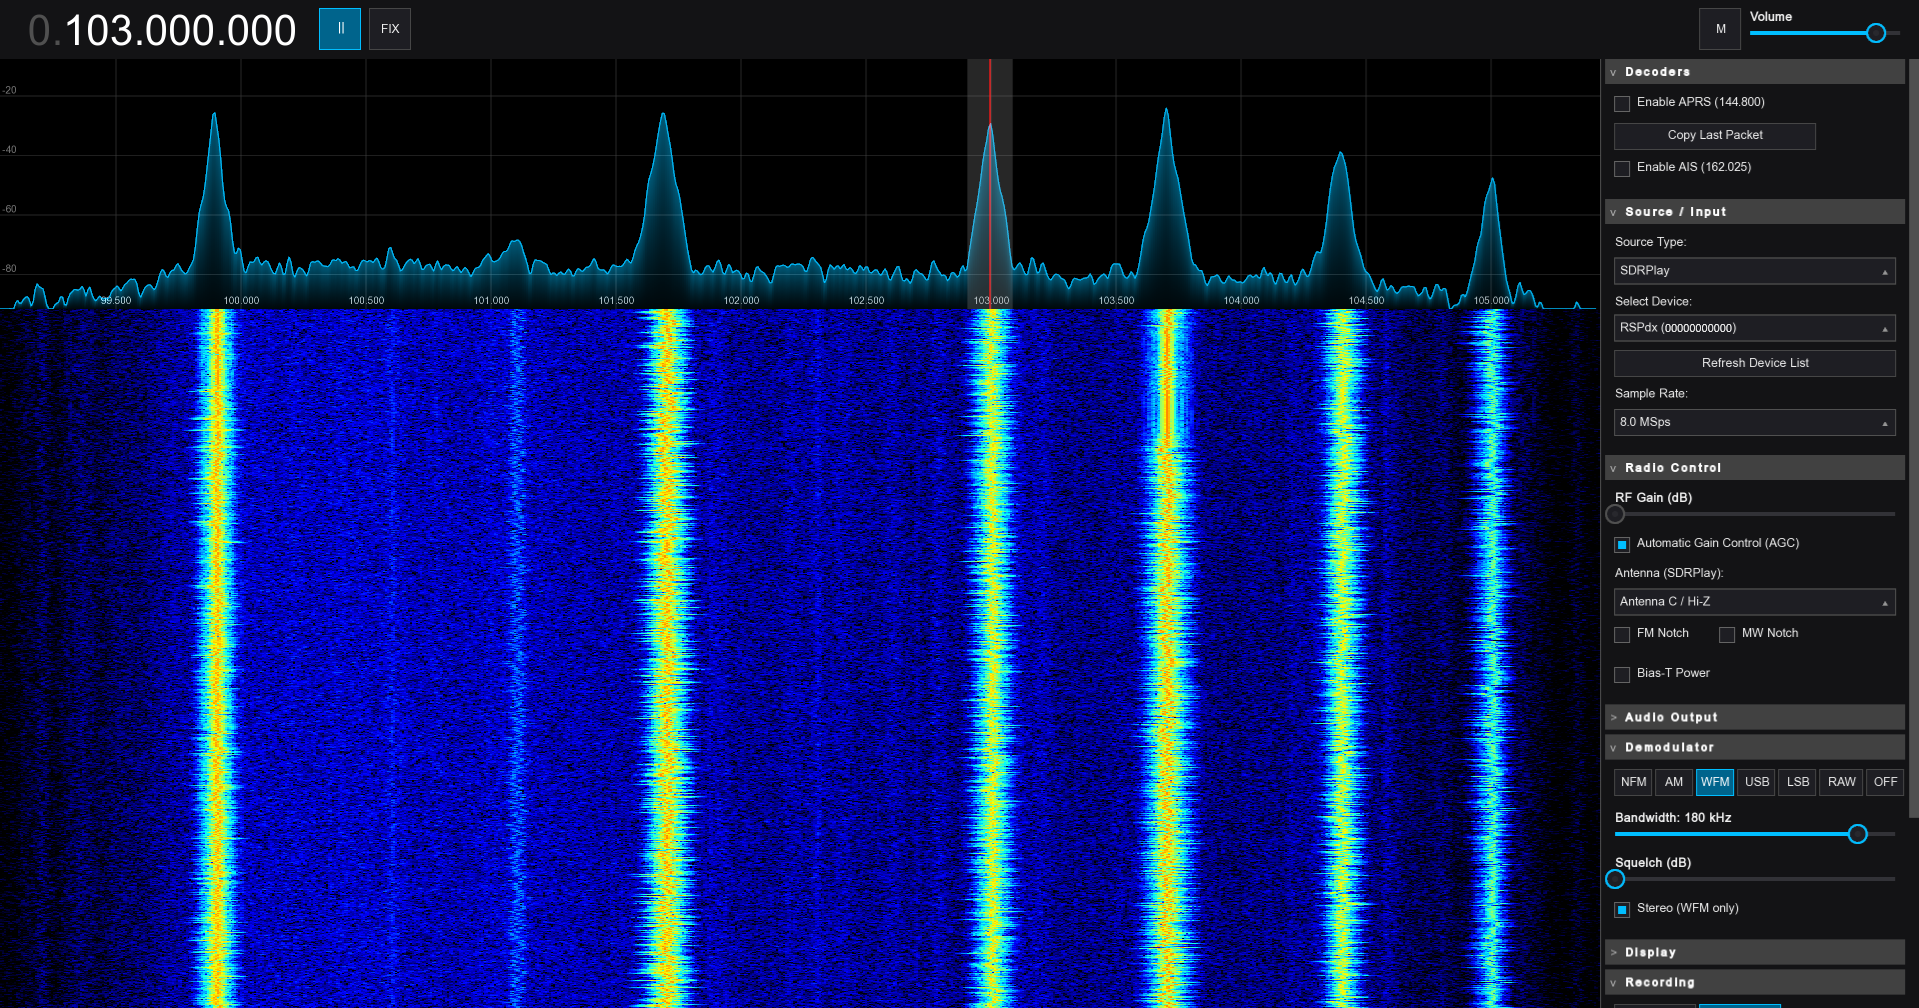
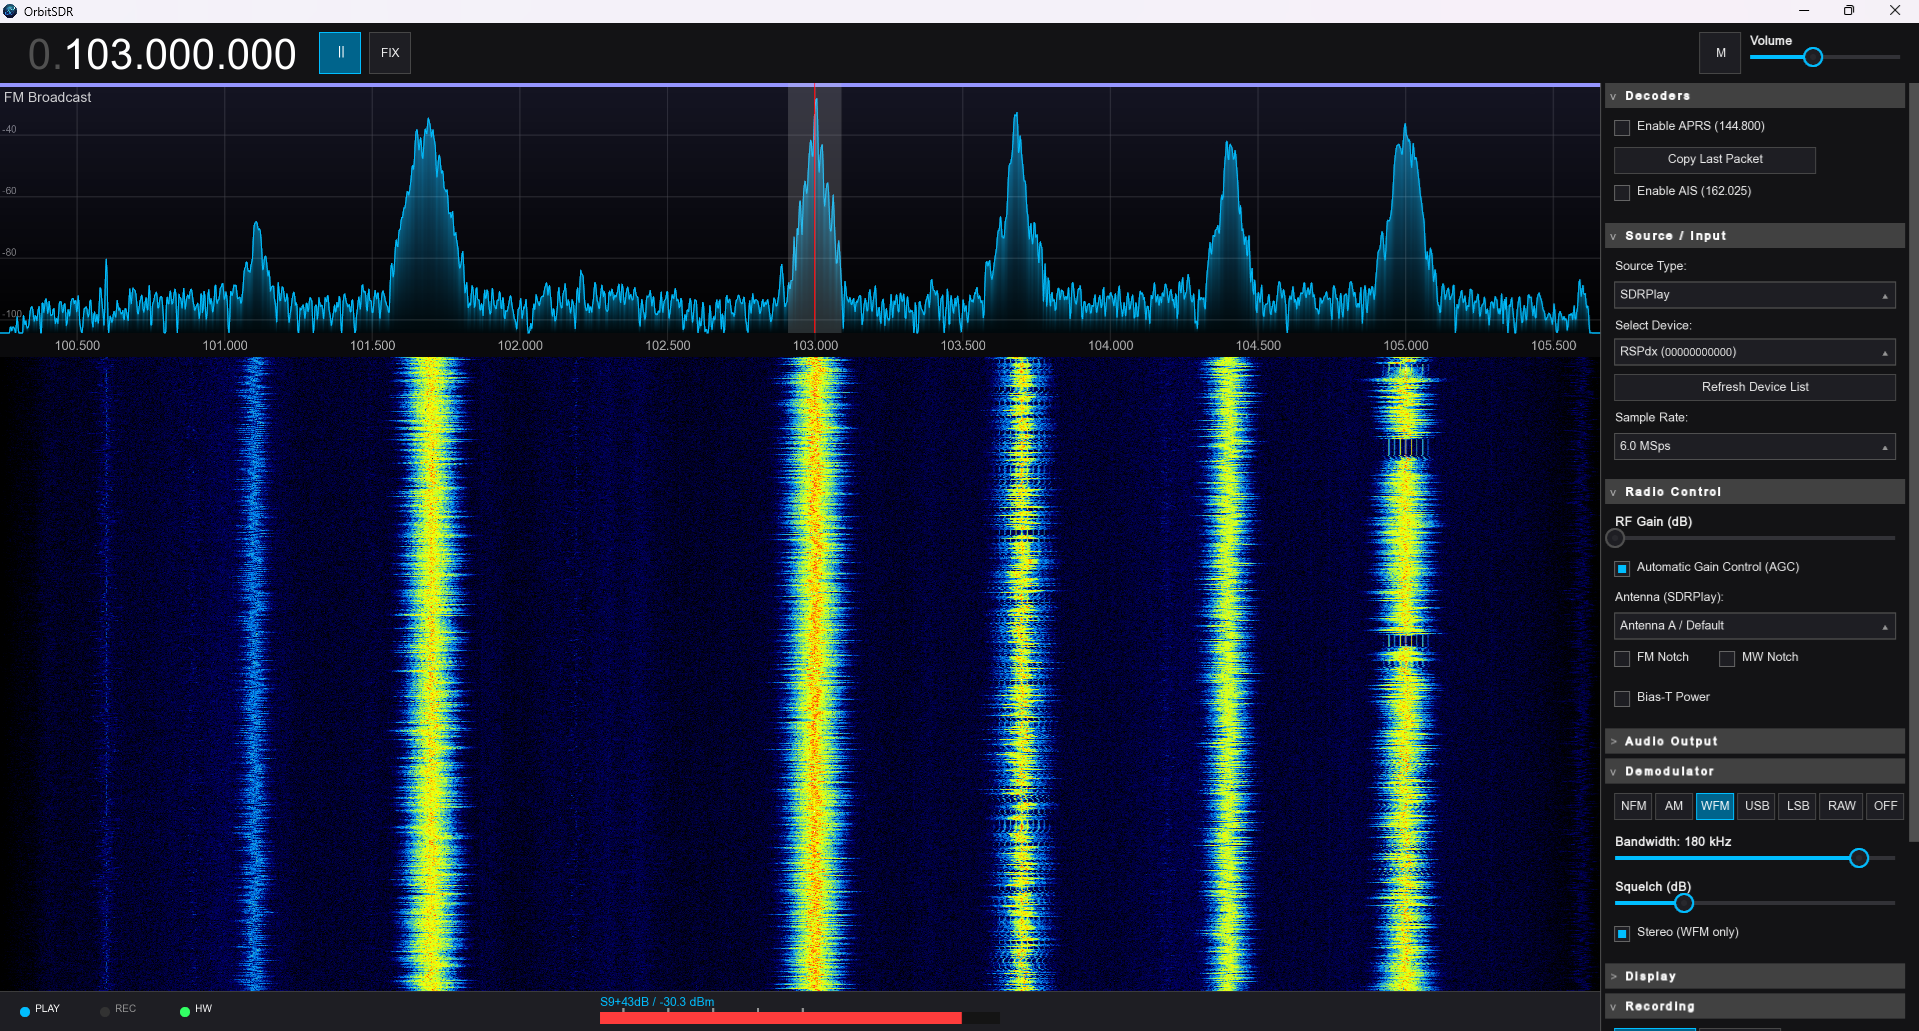
bandplan and UI redesign

diff --git a/src/main.cpp b/src/main.cpp
@@ -873,7 +873,7 @@ int main() {
         layout.sidebarX = layout.winW - SIDEBAR_W;
         layout.specW = layout.sidebarX;
         layout.specH = 250.0f;
-        layout.waterfallH = layout.winH - TOP_BAR_H - layout.specH;
+        layout.waterfallH = layout.winH - TOP_BAR_H - layout.specH - layout.tuneBarH; // Zostawiamy miejsce na pasek
 
         if (layout.waterfallH < 100) layout.waterfallH = 100;
 
@@ -891,7 +891,7 @@ int main() {
         timeSlider.setPosition(20, layout.winH - 30);
         timeSlider.setWidth(layout.specW - 40);
 
-        wSpr.setPosition({0, TOP_BAR_H + layout.specH});
+        wSpr.setPosition({0, TOP_BAR_H + layout.specH + layout.tuneBarH});
         float scaleX = layout.specW / (float)INTERNAL_WATERFALL_WIDTH;
         wSpr.setScale({scaleX, 1.0f});
         wSpr.setTextureRect(sf::IntRect({0, 0}, {INTERNAL_WATERFALL_WIDTH, (int)layout.waterfallH}));
@@ -993,6 +993,13 @@ int main() {
     SdrButton btnModalCopy(80, 30, "Copy", font);
     btnModalClose.onClick = [&]() { showAprsModal = false; };
     btnModalCopy.onClick = [&]() { sf::Clipboard::setString(selectedAprsPacket.raw); };
+
+    // Ładowanie Band Planu
+    std::string bpPath = "bandplan.json";
+    if (!std::ifstream(bpPath).good()) {
+        bpPath = "../Resources/bandplan.json"; // Ścieżka dla macOS wewnątrz OrbitSDR.app/Contents/MacOS/
+    }
+    globalBandPlan = loadBandPlan(bpPath);
 
     while (window.isOpen()) {
         sf::Vector2u currSize = window.getSize();
@@ -1328,7 +1335,7 @@ int main() {
                     }
 
                     bool overTimeline = (currentSourceType == 0) && (timeSlider.isDragging || (m.y > layout.winH - 40));
-                    bool inFreqScaleZone = (m.y >= TOP_BAR_H + layout.specH - 10 && m.y <= TOP_BAR_H + layout.specH + 20 && m.x < layout.specW);
+                    bool inFreqScaleZone = (m.y >= TOP_BAR_H + layout.specH && m.y <= TOP_BAR_H + layout.specH + layout.tuneBarH && m.x < layout.specW);
 
                     float leftEdge = visualCenterX - bwPixels / 2.0f;
                     float rightEdge = visualCenterX + bwPixels / 2.0f;
@@ -1499,7 +1506,63 @@ int main() {
         long long cf = 0;
         if (currentSource) cf = currentCenterFreq;
 
+        // --- RYSOWANIE DEDYKOWANEGO PASKA STROJENIA ---
+        sf::RectangleShape tuneBarBg({layout.specW, layout.tuneBarH});
+        tuneBarBg.setPosition({0, (float)(TOP_BAR_H + layout.specH)});
+        tuneBarBg.setFillColor(sf::Color(10, 10, 12)); // Głęboka czerń/szarość
+        window.draw(tuneBarBg);
+
         drawGrid(window, font, 0, TOP_BAR_H, layout.specW, layout.specH, cf, hwSampleRate, viewStartPct, viewEndPct, slMinDb->currentVal, slMaxDb->currentVal);
+
+        // --- RYSOWANIE BAND PLANU ---
+        double startFreq = (double)cf + (viewStartPct - 0.5) * hwSampleRate;
+        double endFreq = (double)cf + (viewEndPct - 0.5) * hwSampleRate;
+        double visibleSpan = endFreq - startFreq;
+
+        for (const auto& band : globalBandPlan) {
+            // Sprawdź, czy pasmo mieści się w widocznym oknie
+            if (band.endFreq > startFreq && band.startFreq < endFreq) {
+                // Oblicz pozycje X
+                float startX = layout.specW * ((band.startFreq - startFreq) / visibleSpan);
+                float endX = layout.specW * ((band.endFreq - startFreq) / visibleSpan);
+                
+                // Przytnij do krawędzi ekranu
+                if (startX < 0) startX = 0;
+                if (endX > layout.specW) endX = layout.specW;
+                float widthX = endX - startX;
+
+                if (widthX > 1.0f) {
+                    // 1. Półprzeźroczysty gradient na wykresie FFT
+                    sf::VertexArray gradient(sf::PrimitiveType::TriangleStrip, 4);
+                    sf::Color topColor = band.color; topColor.a = 35; // Bardzo delikatna przeźroczystość
+                    sf::Color bottomColor = band.color; bottomColor.a = 0; // Zanika całkowicie
+                    
+                    float topY = TOP_BAR_H;
+                    float bottomY = TOP_BAR_H + layout.specH;
+
+                    gradient[0] = sf::Vertex{sf::Vector2f(startX, topY), topColor};
+                    gradient[1] = sf::Vertex{sf::Vector2f(endX, topY), topColor};
+                    gradient[2] = sf::Vertex{sf::Vector2f(startX, bottomY), bottomColor};
+                    gradient[3] = sf::Vertex{sf::Vector2f(endX, bottomY), bottomColor};
+                    window.draw(gradient);
+
+                    // 2. Poziomy pasek nad wykresem
+                    sf::RectangleShape bar({widthX, 4.0f});
+                    bar.setPosition({startX, (float)TOP_BAR_H});
+                    bar.setFillColor(band.color);
+                    window.draw(bar);
+
+                    // 3. Nazwa pasma
+                    if (widthX > 40.0f) { // Rysuj tekst tylko jeśli jest wystarczająco dużo miejsca
+                        sf::Text bText(font, band.name, 28);
+                        bText.setScale({0.5f, 0.5f});
+                        bText.setPosition({startX + 4, (float)TOP_BAR_H + 5});
+                        bText.setFillColor(sf::Color(255, 255, 255, 200));
+                        window.draw(bText);
+                    }
+                }
+            }
+        }
 
         std::vector<double> smoothedSpectrum = spectrum;
         for (size_t i = 1; i < spectrum.size() - 1; i++) {
@@ -1560,23 +1623,58 @@ int main() {
         }
 
         if (mx != -1.0f) {
-            sf::Color guideColor(100, 100, 100);
-            sf::VertexArray lineFFT(sf::PrimitiveType::Lines, 2);
-            lineFFT[0].position = sf::Vector2f(mx, (float)TOP_BAR_H);
-            lineFFT[0].color = guideColor;
-            lineFFT[1].position = sf::Vector2f(mx, (float)layout.specH + TOP_BAR_H);
-            lineFFT[1].color = guideColor;
-            window.draw(lineFFT);
+        sf::Color guideColor(100, 100, 100);
+        sf::VertexArray lineFFT(sf::PrimitiveType::Lines, 2);
+        lineFFT[0].position = sf::Vector2f(mx, (float)TOP_BAR_H);
+        lineFFT[0].color = guideColor;
+        lineFFT[1].position = sf::Vector2f(mx, (float)layout.specH + TOP_BAR_H);
+        lineFFT[1].color = guideColor;
+        window.draw(lineFFT);
 
-            if (my > (float)layout.specH) {
-                sf::VertexArray lineWaterfall(sf::PrimitiveType::Lines, 2);
-                lineWaterfall[0].position = sf::Vector2f(mx, (float)layout.specH + TOP_BAR_H);
-                lineWaterfall[0].color = guideColor;
-                lineWaterfall[1].position = sf::Vector2f(mx, (float)(layout.specH + layout.waterfallH + TOP_BAR_H));
-                lineWaterfall[1].color = guideColor;
-                window.draw(lineWaterfall);
+        // --- WARUNEK: TOOLTIP TYLKO W DOLNEJ CZĘŚCI FFT ---
+        if (my > layout.specH - 50.0f && my <= layout.specH) {
+            double hoverFreq = startFreq + (mx / layout.specW) * visibleSpan;
+            int binIdx = std::clamp((int)((mx / layout.specW) * spectrum.size()), 0, (int)spectrum.size() - 1);
+            float hoverPower = spectrum.empty() ? -127.0f : spectrum[binIdx];
+
+            std::string freqFormat = freqVFO.formatWithDots((long long)hoverFreq) + " Hz";
+            std::stringstream pwrStream;
+            pwrStream << std::fixed << std::setprecision(2) << hoverPower << " dBm";
+            std::string tooltipStr = freqFormat + "\nPower: " + pwrStream.str();
+
+            sf::Text tooltipText(font, tooltipStr, 24);
+            tooltipText.setScale({0.5f, 0.5f});
+            tooltipText.setFillColor(sf::Color::White);
+            
+            sf::FloatRect textBounds = tooltipText.getGlobalBounds();
+            sf::RectangleShape tooltipBg({textBounds.size.x + 16, textBounds.size.y + 12});
+            tooltipBg.setFillColor(sf::Color(20, 20, 25, 230));
+            tooltipBg.setOutlineColor(Theme::Accent);
+            tooltipBg.setOutlineThickness(1.0f);
+
+            float ttX = mx + 15.0f;
+            float ttY = my + TOP_BAR_H + 15.0f;
+            if (ttX + tooltipBg.getSize().x > layout.specW) {
+                ttX = mx - tooltipBg.getSize().x - 15.0f;
             }
+
+            tooltipBg.setPosition({ttX, ttY});
+            tooltipText.setPosition({ttX + 8, ttY + 4});
+
+            window.draw(tooltipBg);
+            window.draw(tooltipText);
         }
+
+        // Kreska na wodospadzie uwzględniająca przesunięcie paska
+        if (my > (float)layout.specH) {
+            sf::VertexArray lineWaterfall(sf::PrimitiveType::Lines, 2);
+            lineWaterfall[0].position = sf::Vector2f(mx, (float)layout.specH + layout.tuneBarH + TOP_BAR_H);
+            lineWaterfall[0].color = guideColor;
+            lineWaterfall[1].position = sf::Vector2f(mx, (float)(layout.specH + layout.tuneBarH + layout.waterfallH + TOP_BAR_H));
+            lineWaterfall[1].color = guideColor;
+            window.draw(lineWaterfall);
+        }
+    }
 
         if (tunerPosInView >= 0.0f && tunerPosInView <= 1.0f) {
             sf::RectangleShape tunerRect;
@@ -1742,6 +1840,92 @@ int main() {
             float tableH = 250.0f;
             float tableY = layout.winH - tableH;
             decoderUI->draw(window, 0, tableY, layout.specW, tableH);
+        } else {
+            // --- STATUS BAR Z S-METEREM (Ukrywany gdy działają dekodery) ---
+            float statusH = 40.0f;
+            float statusY = layout.winH - statusH;
+            
+            // Tło paska
+            sf::RectangleShape statusBarBg({layout.specW, statusH});
+            statusBarBg.setPosition({0, statusY});
+            statusBarBg.setFillColor(sf::Color(30, 30, 35));
+            statusBarBg.setOutlineThickness(1);
+            statusBarBg.setOutlineColor(sf::Color(60, 60, 60));
+            window.draw(statusBarBg);
+
+            // Wskaźniki LED po lewej
+            float ledX = 20.0f;
+            auto drawLED = [&](std::string label, bool state, sf::Color colorOn) {
+                sf::CircleShape led(5.0f);
+                led.setPosition({ledX, statusY + 15.0f});
+                led.setFillColor(state ? colorOn : sf::Color(50, 50, 50));
+                window.draw(led);
+                
+                sf::Text txt(font, label, 20);
+                txt.setScale({0.5f, 0.5f});
+                txt.setPosition({ledX + 15.0f, statusY + 10.0f});
+                txt.setFillColor(state ? sf::Color::White : sf::Color(150, 150, 150));
+                window.draw(txt);
+                ledX += 80.0f;
+            };
+
+            drawLED("PLAY", sharedData.isPlaying, Theme::Accent);
+            drawLED("REC", sharedData.isRecording, sf::Color(255, 50, 50));
+            drawLED("HW", isHw, sf::Color(50, 255, 100));
+
+            // Skala graficzna S-Metera ułożona centralnie
+            float meterW = 400.0f;
+            float meterX = (layout.specW / 2.0f) - (meterW / 2.0f);
+            
+            // Pobierz moc i mapuj na S-Meter (-127 dBm do -20 dBm)
+            int centerBin = std::clamp((int)(tunePct * spectrum.size()), 0, (int)spectrum.size() - 1);
+            float currentPower = spectrum.empty() ? -127.0f : spectrum[centerBin];
+            float minPwr = -127.0f;
+            float maxPwr = -20.0f;
+            float fillPct = std::clamp((currentPower - minPwr) / (maxPwr - minPwr), 0.0f, 1.0f);
+
+            // Tło wskaźnika S-metera
+            sf::RectangleShape sBg({meterW, 12.0f});
+            sBg.setPosition({meterX, statusY + 20.0f});
+            sBg.setFillColor(sf::Color(20, 20, 20));
+            window.draw(sBg);
+
+            // Wypełnienie S-Metera z kolorowaniem (czerwony dla obszaru S9+)
+            float fillW = meterW * fillPct;
+            float s9ThresholdW = meterW * ((-73.0f - minPwr) / (maxPwr - minPwr)); // S9 = -73 dBm
+            
+            sf::RectangleShape sFill({fillW, 12.0f});
+            sFill.setPosition({meterX, statusY + 20.0f});
+            // Jeśli moc przekracza S9, użyj czerwonego, jeśli nie - zielonego
+            sFill.setFillColor(currentPower > -73.0f ? sf::Color(255, 60, 60) : sf::Color(60, 255, 60));
+            window.draw(sFill);
+
+            // Teksty skali (S1...S9...+)
+            int sUnit = std::clamp(std::round((currentPower + 127.0f) / 6.0f), 0.0f, 9.0f);
+            std::string sTextStr = "S" + std::to_string(sUnit);
+            if (currentPower > -73.0f) {
+                int plusDb = std::round(currentPower - (-73.0f));
+                sTextStr = "S9+" + std::to_string(plusDb) + "dB";
+            }
+
+            std::stringstream pwrFmt;
+            pwrFmt << std::fixed << std::setprecision(1) << currentPower << " dBm";
+
+            sf::Text sValTxt(font, sTextStr + " / " + pwrFmt.str(), 24);
+            sValTxt.setScale({0.5f, 0.5f});
+            sValTxt.setPosition({meterX, statusY + 2.0f});
+            sValTxt.setFillColor(Theme::Accent);
+            window.draw(sValTxt);
+            
+            // Narysuj markery skali S
+            for (int s = 1; s <= 9; s += 2) {
+                float markerDb = -127.0f + (s * 6.0f);
+                float mPct = (markerDb - minPwr) / (maxPwr - minPwr);
+                sf::RectangleShape tick({2.0f, 4.0f});
+                tick.setPosition({meterX + (meterW * mPct), statusY + 16.0f});
+                tick.setFillColor(sf::Color(150, 150, 150));
+                window.draw(tick);
+            }
         }
 
         if (currentSourceType == 0) timeSlider.draw(window);

diff --git a/src/Utils.h b/src/Utils.h
@@ -155,10 +155,21 @@ inline void drawGrid(sf::RenderWindow& window, const sf::Font& font, float x, fl
     if (visibleSpan < 1000000) stepHz = 100000.0; if (visibleSpan < 500000) stepHz = 50000.0; if (visibleSpan < 200000) stepHz = 25000.0; if (visibleSpan > 5000000) stepHz = 500000.0; if (visibleSpan > 10000000) stepHz = 1000000.0;
     long long firstLineFreq = (long long)(ceil(startFreq / stepHz) * stepHz);
     for (double f = (double)firstLineFreq; f < endFreq; f += stepHz) {
-        float normPos = (float)((f - startFreq) / visibleSpan); float xPos = x + normPos * w;
-        sf::RectangleShape line({1, h}); line.setPosition(sf::Vector2f(xPos, y)); line.setFillColor(sf::Color(80, 80, 80, 100)); window.draw(line);
-        std::string freqStr = formatHz((long long)f); if(freqStr.size() > 4) freqStr = freqStr.substr(0, freqStr.size()-4);
-        sf::Text l(font, freqStr, 20); l.setScale(sf::Vector2f(0.5f, 0.5f));
-        sf::FloatRect b = l.getGlobalBounds(); l.setPosition(sf::Vector2f(xPos - b.size.x/2, y + h - 15)); l.setFillColor(sf::Color(220, 220, 220, 200)); window.draw(l);
+        float normPos = (float)((f - startFreq) / visibleSpan);
+        float xPos = x + normPos * w;
+        
+        // Przedłużamy linię, aby weszła jako "znacznik" na czarny pasek
+        sf::RectangleShape line({1, h + 8}); 
+        line.setPosition(sf::Vector2f(xPos, y));
+        line.setFillColor(sf::Color(80, 80, 80, 100));
+        window.draw(line);
+        std::string freqStr = formatHz((long long)f);
+        if(freqStr.size() > 4) freqStr = freqStr.substr(0, freqStr.size()-4);
+        sf::Text l(font, freqStr, 26);
+        l.setScale(sf::Vector2f(0.5f, 0.5f));
+        sf::FloatRect b = l.getGlobalBounds();
+        l.setPosition(sf::Vector2f(xPos - b.size.x/2, y + h + 4));
+        l.setFillColor(sf::Color(220, 220, 220, 200));
+        window.draw(l);
     }
 }

diff --git a/src/Globals.h b/src/Globals.h
@@ -76,4 +76,41 @@ struct SharedData {
                    inspectorWaterfallRow(280 * 4, 0) {} 
 };
 
-struct LayoutState { float winW, winH, sidebarX, specW, specH, waterfallH; };
+struct LayoutState {
+    float winW, winH, sidebarX, specW, specH, waterfallH;
+    float tuneBarH = 24.0f; // Wysokość czarnego paska strojenia
+};
+
+struct BandRegion {
+    long long startFreq;
+    long long endFreq;
+    std::string name;
+    sf::Color color;
+};
+
+// Prosty parser JSON wykorzystujący regex, niewymagający zewnętrznych bibliotek
+inline std::vector<BandRegion> loadBandPlan(const std::string& filepath) {
+    std::vector<BandRegion> bands;
+    std::ifstream file(filepath);
+    if (!file.is_open()) return bands;
+
+    std::string content((std::istreambuf_iterator<char>(file)), std::istreambuf_iterator<char>());
+    // Oczekiwany format w JSON: {"start": 144000000, "end": 146000000, "name": "2m Amateur", "color": "255,0,0"}
+    std::regex bandRegex("\"start\"\\s*:\\s*(\\d+).*?\"end\"\\s*:\\s*(\\d+).*?\"name\"\\s*:\\s*\"([^\"]+)\".*?\"color\"\\s*:\\s*\"(\\d+),(\\d+),(\\d+)\"");
+    
+    auto words_begin = std::sregex_iterator(content.begin(), content.end(), bandRegex);
+    auto words_end = std::sregex_iterator();
+
+    for (std::sregex_iterator i = words_begin; i != words_end; ++i) {
+        std::smatch match = *i;
+        BandRegion b;
+        b.startFreq = std::stoll(match[1].str());
+        b.endFreq = std::stoll(match[2].str());
+        b.name = match[3].str();
+        b.color = sf::Color(std::stoi(match[4]), std::stoi(match[5]), std::stoi(match[6]));
+        bands.push_back(b);
+    }
+    return bands;
+}
+
+inline std::vector<BandRegion> globalBandPlan; // Globalna zmienna do przechowania pasm
